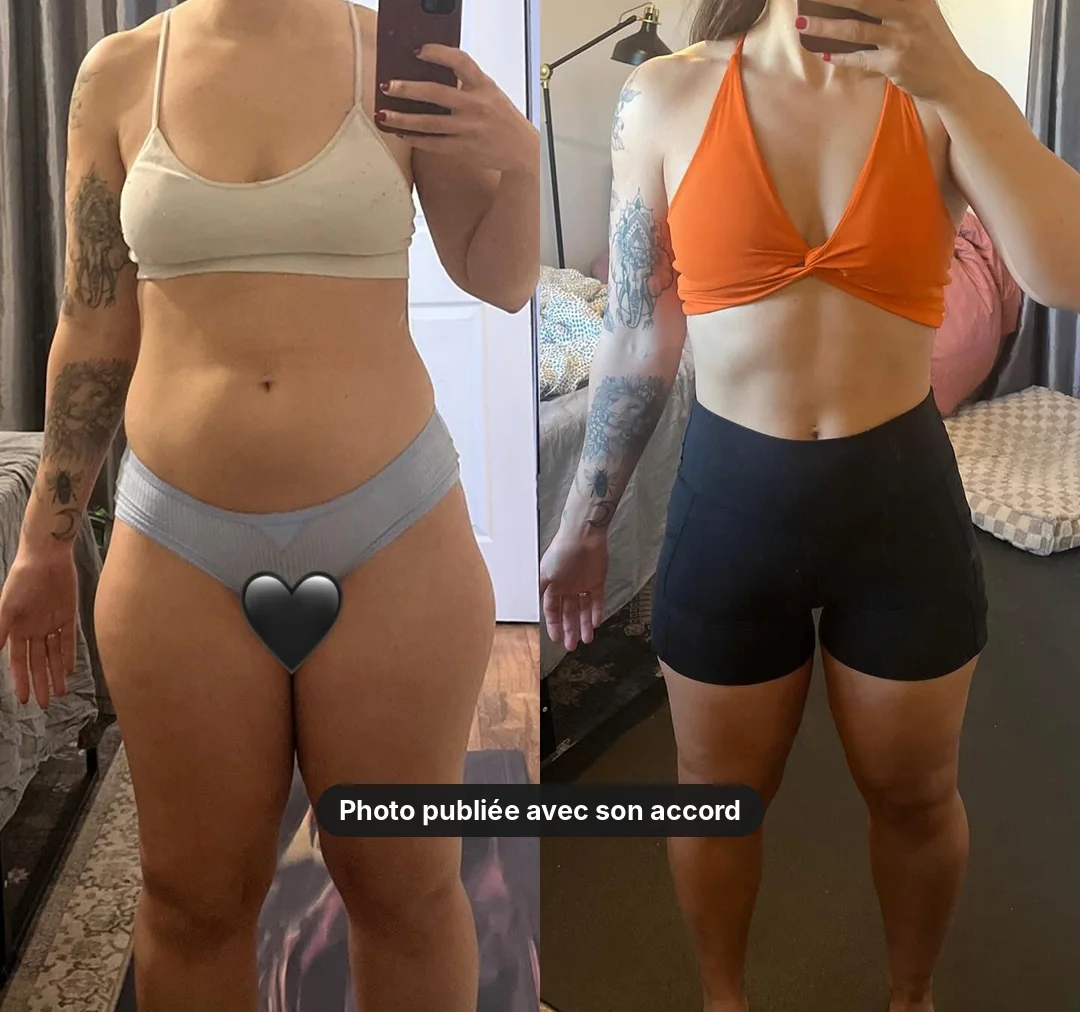
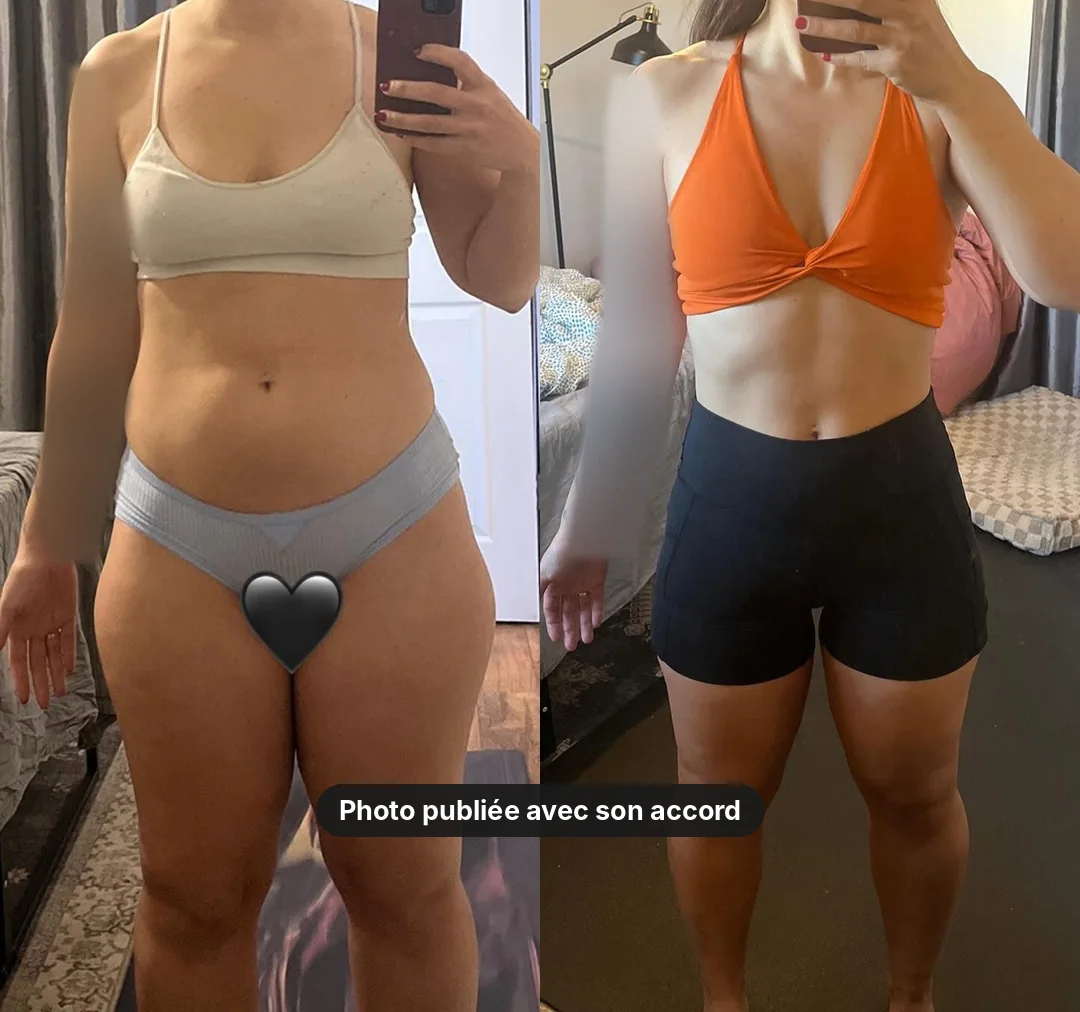
Transformations : tatouages floutés sur l'avant/après −8 kg
Claude-Session: https://claude.ai/code/session_01WvbeeSX2J59bAm1KWb52cK

Changed region(s): [[0.5194, 0.0613, 0.6417, 0.5514], [0.0306, 0.0613, 0.1222, 0.5514]]

diff --git a/transformations.html b/transformations.html
@@ -715,7 +715,7 @@ height="0" width="0" style="display:none;visibility:hidden"></iframe></noscript>
       <a href="#transfo-emeline"><img src="images/avant-apres-emeline.jpg" alt="Transformation Emeline 1 mois" width="4319" height="4319" loading="lazy"></a>
       <a href="#transfo-anonyme"><img src="images/avant-apres-anonyme.jpg" alt="Transformation cliente" width="2048" height="2048" loading="lazy"></a>
       <a href="#transfo-anonyme"><img src="images/avant-apres-profil-anonyme.jpg" alt="Transformation cliente profil" width="2048" height="2048" loading="lazy"></a>
-      <a href="#transfo-anonyme-8kg"><img src="images/avant-apres-anonyme-8kg.webp" alt="Transformation cliente, −8 kg en 6 mois" width="1080" height="1012" loading="lazy"></a>
+      <a href="#transfo-anonyme-8kg"><img src="images/avant-apres-anonyme-8kg.webp?v=2" alt="Transformation cliente, −8 kg en 6 mois" width="1080" height="1012" loading="lazy"></a>
       <a href="#transfo-anonyme-hybride"><img src="images/avant-apres-anonyme-hybride.webp" alt="Transformation cliente, coaching hybride 4 mois" width="1080" height="1009" loading="lazy"></a>
       <!-- doublon pour boucle infinie -->
       <a href="#transfo-maria"><img src="images/maria-face.webp?v=5" alt="Transformation Maria" width="1200" height="1200" loading="lazy"></a>
@@ -732,7 +732,7 @@ height="0" width="0" style="display:none;visibility:hidden"></iframe></noscript>
       <a href="#transfo-emeline"><img src="images/avant-apres-emeline.jpg" alt="Transformation Emeline 1 mois" width="4319" height="4319" loading="lazy"></a>
       <a href="#transfo-anonyme"><img src="images/avant-apres-anonyme.jpg" alt="Transformation cliente" width="2048" height="2048" loading="lazy"></a>
       <a href="#transfo-anonyme"><img src="images/avant-apres-profil-anonyme.jpg" alt="Transformation cliente profil" width="2048" height="2048" loading="lazy"></a>
-      <a href="#transfo-anonyme-8kg"><img src="images/avant-apres-anonyme-8kg.webp" alt="Transformation cliente, −8 kg en 6 mois" width="1080" height="1012" loading="lazy"></a>
+      <a href="#transfo-anonyme-8kg"><img src="images/avant-apres-anonyme-8kg.webp?v=2" alt="Transformation cliente, −8 kg en 6 mois" width="1080" height="1012" loading="lazy"></a>
       <a href="#transfo-anonyme-hybride"><img src="images/avant-apres-anonyme-hybride.webp" alt="Transformation cliente, coaching hybride 4 mois" width="1080" height="1009" loading="lazy"></a>
     </div>
   </div>
@@ -1018,7 +1018,7 @@ height="0" width="0" style="display:none;visibility:hidden"></iframe></noscript>
       <!-- CLIENTE ANONYME — domicile puis hybride, −8 kg en 6 mois -->
       <div class="tc-card" id="transfo-anonyme-8kg">
         <div class="tc-photo" style="aspect-ratio:auto">
-          <img src="images/avant-apres-anonyme-8kg.webp" alt="Avant après d'une cliente — coaching à domicile puis hybride Ornella Fit, −8 kg en 6 mois" loading="lazy" style="width:100%;display:block;object-fit:cover;height:auto;" width="1080" height="1012">
+          <img src="images/avant-apres-anonyme-8kg.webp?v=2" alt="Avant après d'une cliente — coaching à domicile puis hybride Ornella Fit, −8 kg en 6 mois" loading="lazy" style="width:100%;display:block;object-fit:cover;height:auto;" width="1080" height="1012">
           <div class="tc-tag">Résultat réel</div>
           <div class="tc-stats-overlay">
             <span class="tc-stat-pill">−8 kg</span>
